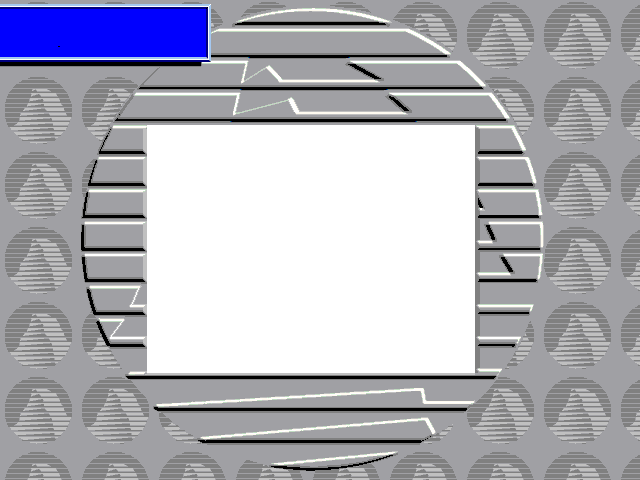
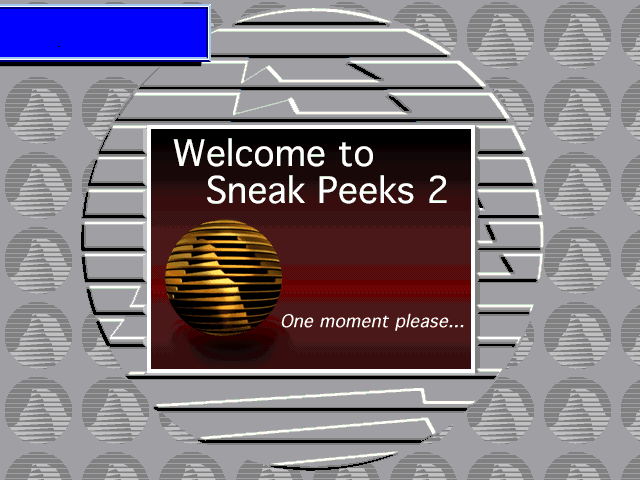
320 names

Changed region(s): [[0.2188, 0.25, 0.75, 0.7812]]

diff --git a/js/main.js b/js/main.js
@@ -327,18 +327,67 @@ function doAd() {
 
     myVideo.setAttribute('src', vs);
     myVideo.setAttribute('type', 'video/mp4');
+    drawBkgnd();
+    ctx.fillStyle = "rgb(0,255,0)";
+    let x = 30;
+    let y = 40;
+    let s = "";
+    switch (ads[adsI]) {
+        case "alien320":
+            s = "Alien Legacy";
+            break;
+        case "lsl6320":
+            s = "Leisure Suit Larry 6";
+            x -= 20;
+            break;
+        case "gk320":
+            s = "Gabriel Knight";
+            break;
+        case "kq7320":
+            s = "King's Quest 7";
+            break;
+        case "phant320":
+            s = "Phantasmagoria";
+            break;
+        case "pq4320":
+            s = "Police Quest 4";
+            break;
+        case "sq6320":
+            s = "Space Quest 6";
+            break;
+        case "tim2320":
+            s = "T.I.M. 2";
+            break;
+        case "aod320":
+            s = "Aces of the Deep";
+            break;
+        case "aotp320":
+            s = "Aces over the Pacific";
+            x -= 20;
+            break;
+        case "earth320":
+            s = "Earth Siege";
+            break;
+        case "outp320":
+            s = "Outpost";
+            break;
+        case "base320":
+            s = "F.P.S. Baseball";
+            break;
+        default:
+            s = "Sneak Peek 2";
+    }
+    printText(s,x,y);
+    if (!musicMuted) {
+        myAudio.pause();
+        myAudio2.pause();
+    }
+    myVideo.play();
     adsI ++; 
     if (adsI >= ads.length) {
         adsI = 0;
         shuffle(ads);
     }
-    if (!musicMuted) {
-        myAudio.pause();
-        myAudio2.pause();
-    }
-    drawBkgnd();
-    myVideo.play();
-    console.log("myVideo: " + myVideo.src);
 }
 
 function pqQuestion() {
